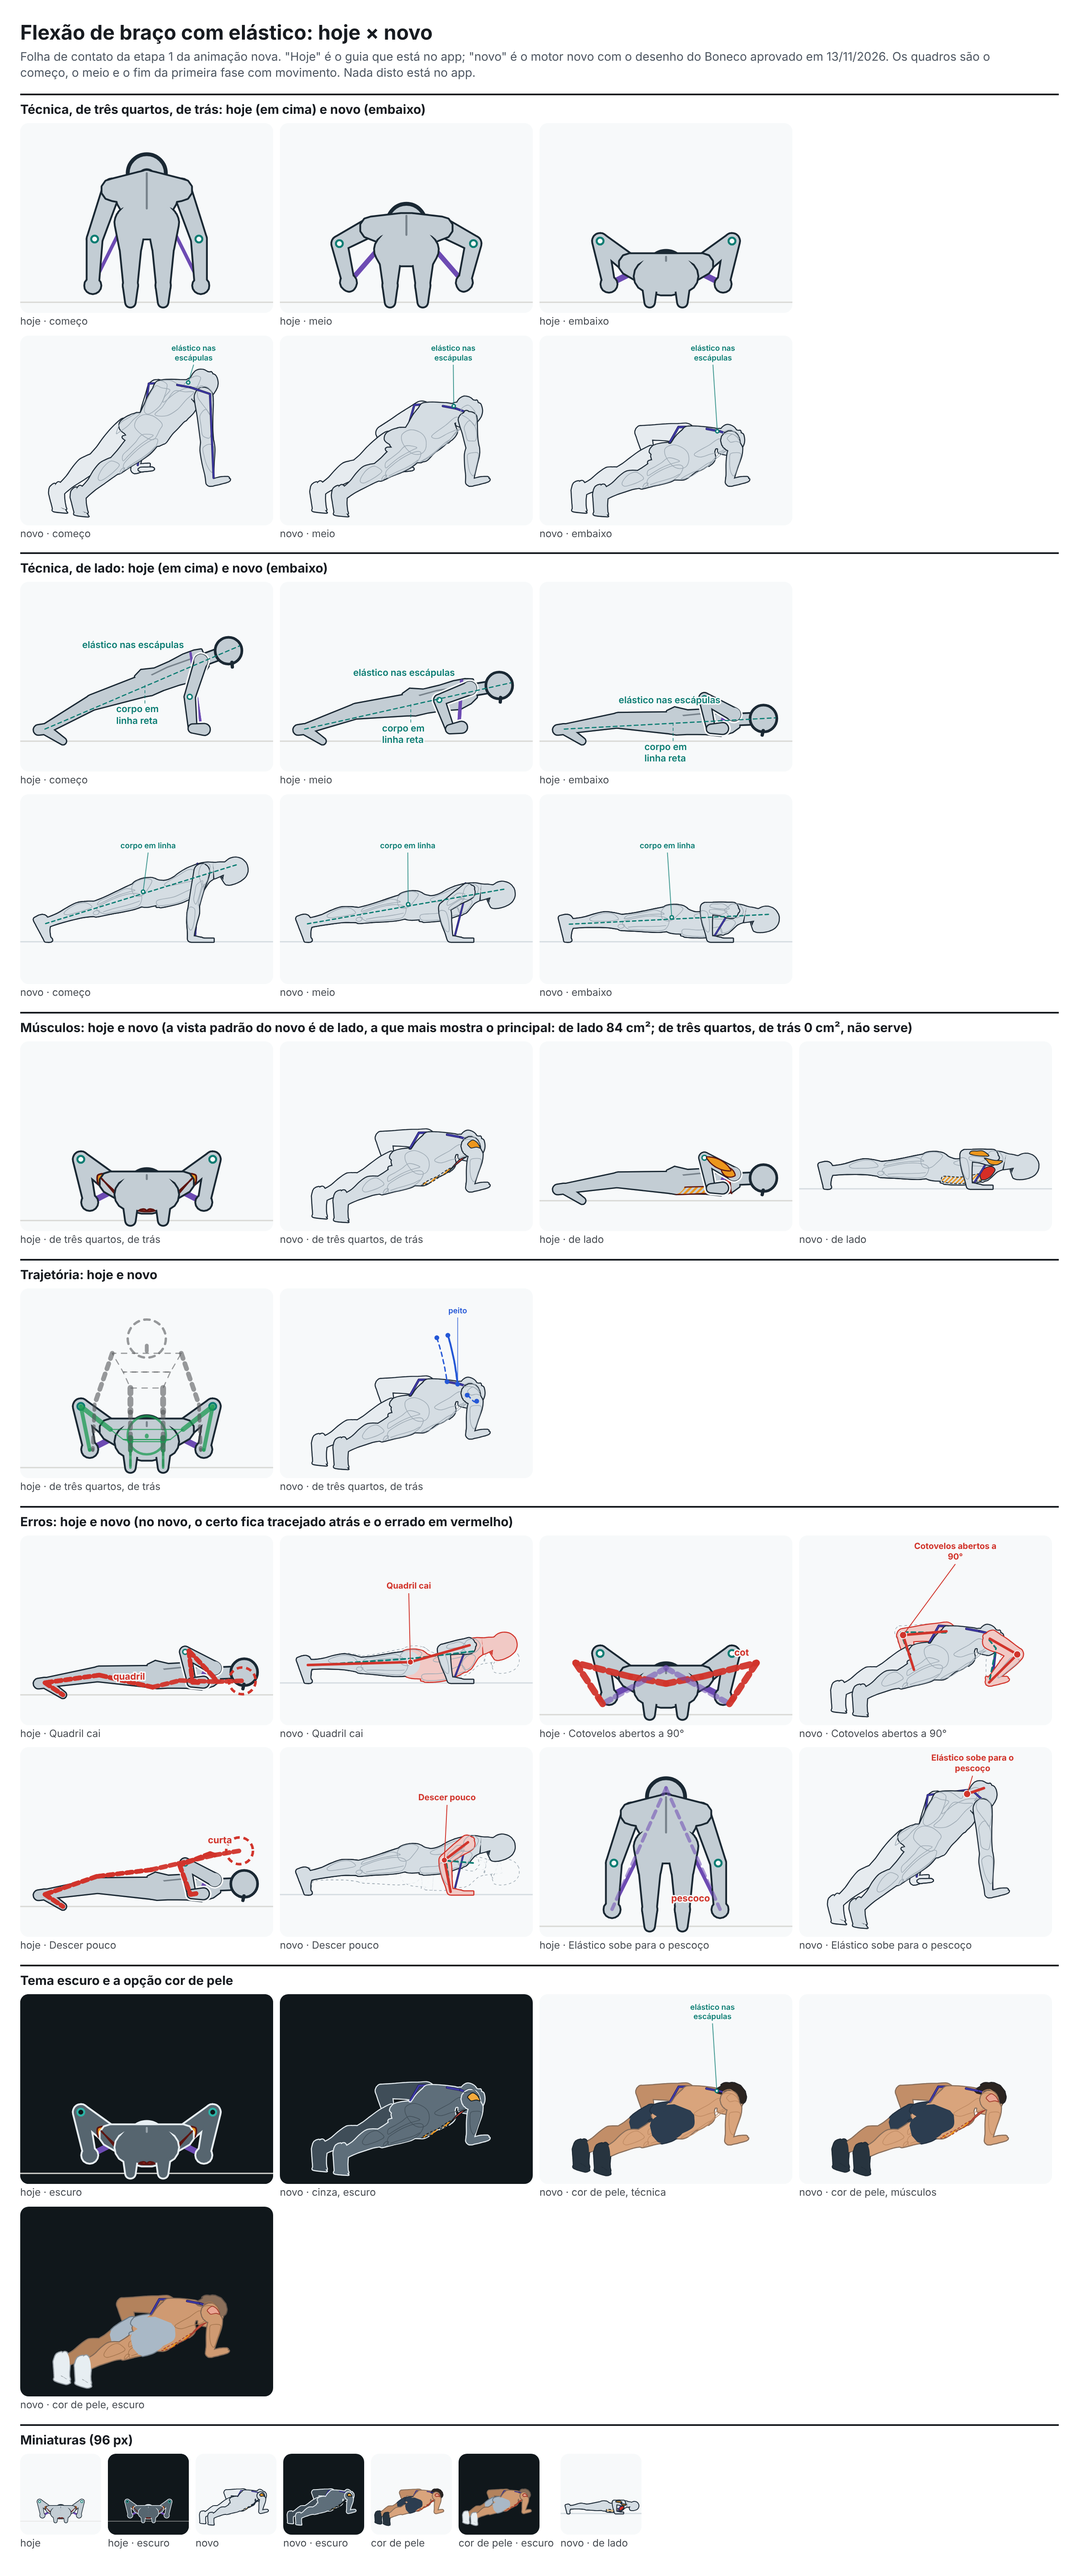
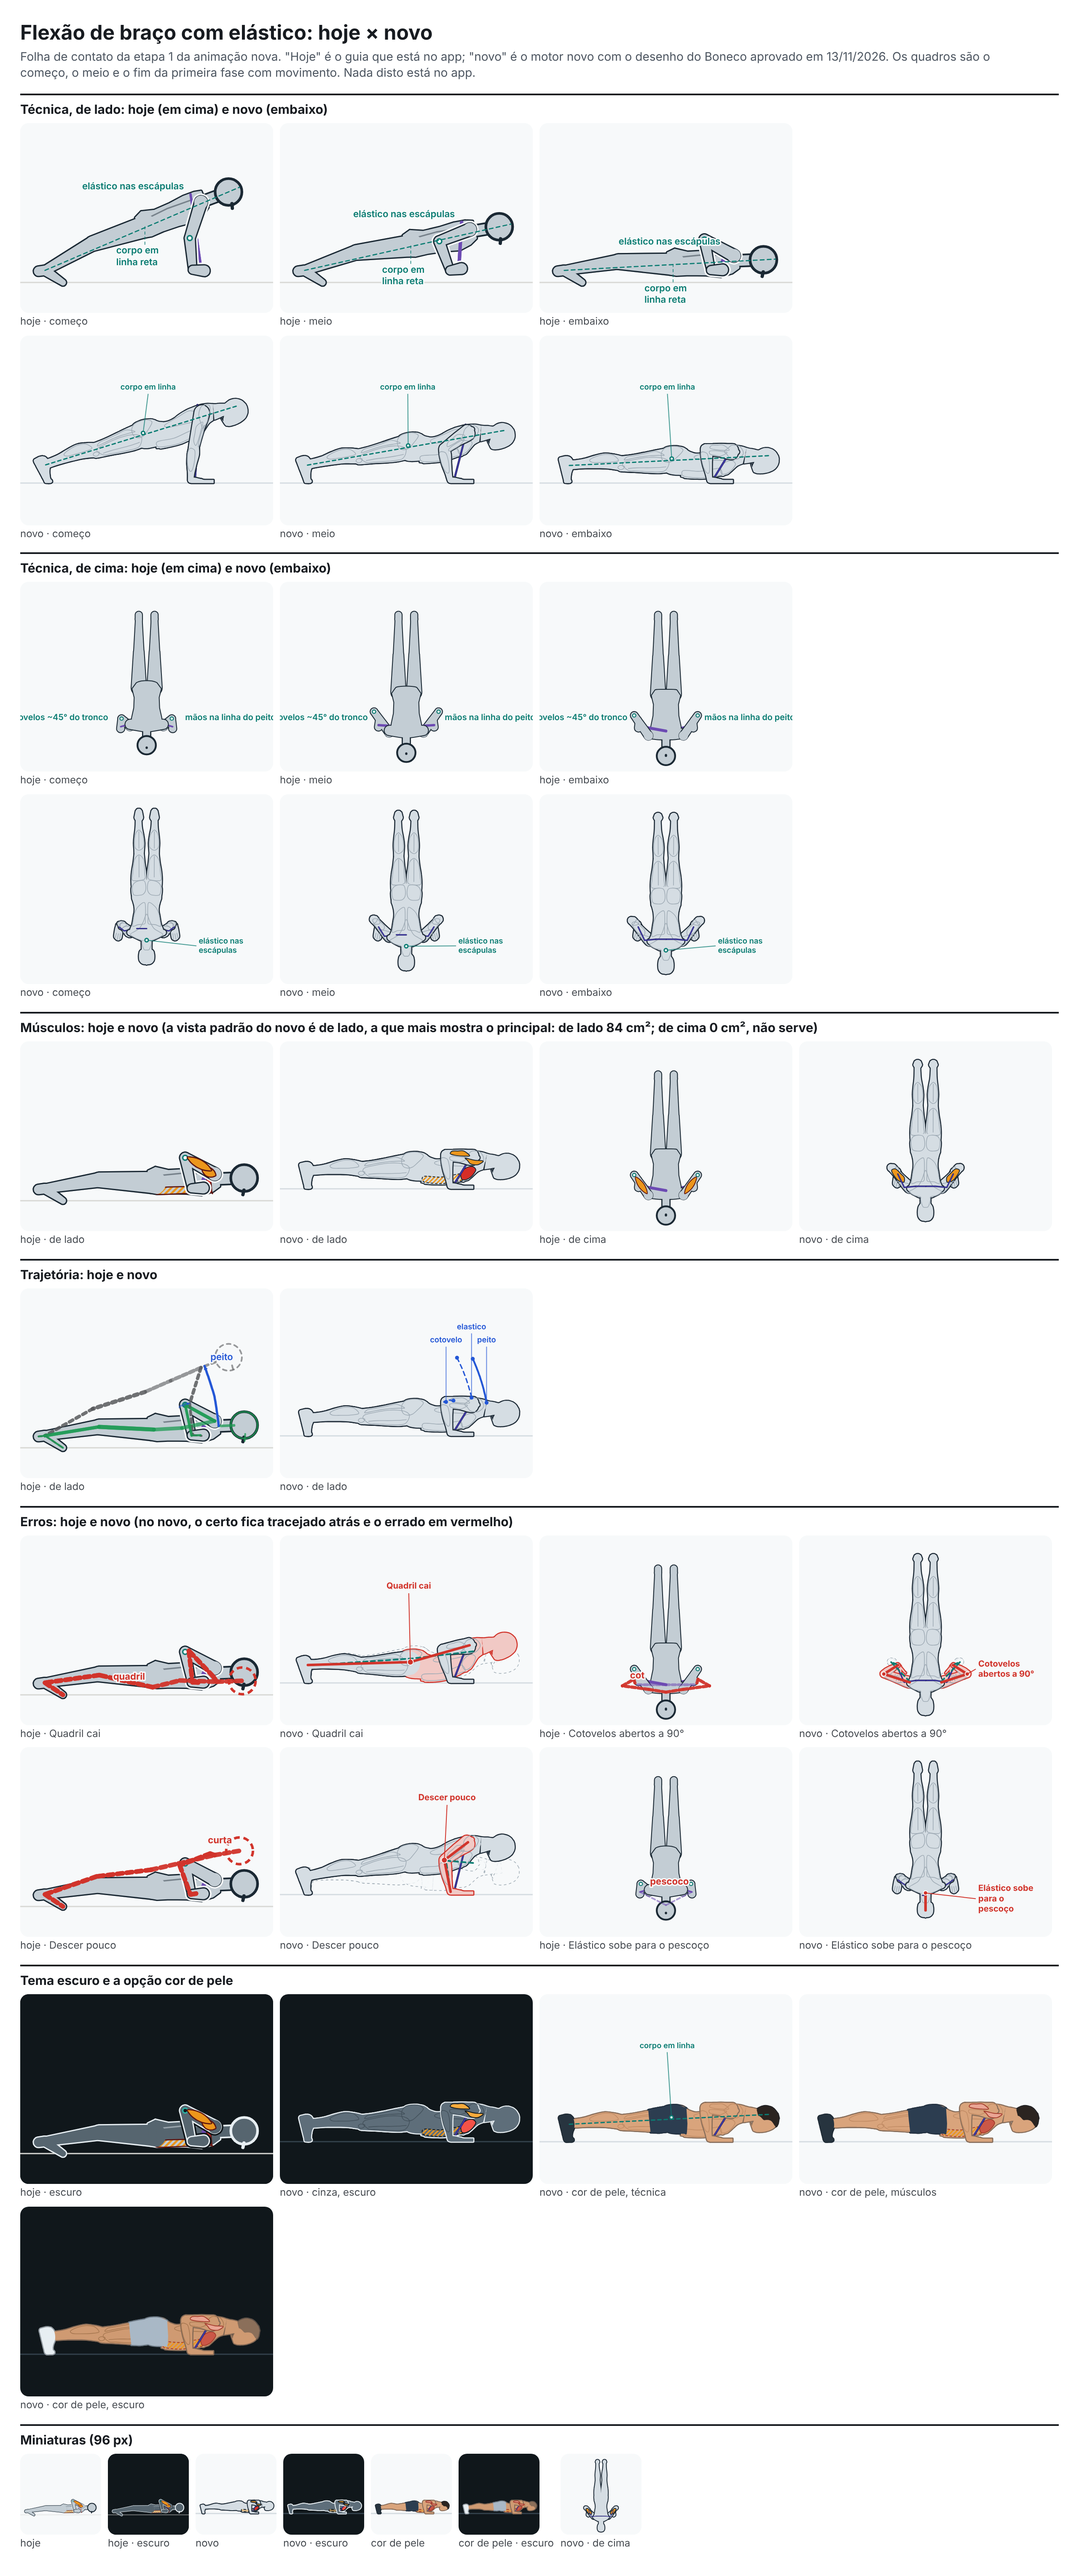
Troca a vista de três quartos pela de cima na flexão com elástico e atualiza o andamento
Com o corpo deitado, a vista de três quartos ficava tosca; de cima, o elástico aparece atravessando as escápulas. A flexão com as mãos juntas e a com elástico entram como aprovadas por delegação.

Claude-Session: https://claude.ai/code/session_01YRzts7dTzBdkrmTDEnq8bW

diff --git a/src/engine/novo/aprovados.ts b/src/engine/novo/aprovados.ts
@@ -19,4 +19,6 @@ export const APROVADOS: Record<string, { em: string; oQueEleDisse: string; como?
   'yt-suspensao': { em: '2026-11-15', oQueEleDisse: DELEGOU, como: 'por delegação' },
   'remada-suspensao': { em: '2026-11-15', oQueEleDisse: DELEGOU, como: 'por delegação' },
   'rosca-suspensao': { em: '2026-11-15', oQueEleDisse: DELEGOU, como: 'por delegação' },
+  'flexao-fechada': { em: '2026-11-15', oQueEleDisse: DELEGOU, como: 'por delegação' },
+  'flexao-elastico': { em: '2026-11-15', oQueEleDisse: DELEGOU, como: 'por delegação' },
 };

diff --git a/src/engine/novo/exercicios/flexao-elastico.ts b/src/engine/novo/exercicios/flexao-elastico.ts
@@ -70,7 +70,7 @@ const A = criarFlexao(ficha, { cena });
 
 export const flexaoElastico: Exercicio = {
   ficha: A.ficha,
-  vistas: ['quinaTras', 'lateral'],
+  vistas: ['lateral', 'cima'],
   quadro: A.quadro,
   // peito principal; tríceps e frente do ombro secundários; o abdômen "só ajuda" (como na flexão e na animação de hoje)
   papeis: { peitoral: 'p', deltAnt: 's', triceps: 's', abdomen: 'a' },

diff --git a/docs/revisoes/animacao-nova/andamento.md b/docs/revisoes/animacao-nova/andamento.md
@@ -2,14 +2,14 @@
 
 Atualizado por quem integra, a cada família juntada. "Aprovada na folha" = o Gustavo olhou e aprovou. "Aprovada por delegação" = conferida por quem integra, risco baixo, registrada com a frase dele de 15/11/2026. "Para o Gustavo ver" = risco médio ou alto: só entra na lista do app depois do ok dele. "Correção de qualidade" = desde o aviso dele de 15/11 ("o fato de eu ter delegado [...] não quer dizer que a gente pode diminuir a qualidade"), nenhuma animação delegada conta como pronta enquanto tiver defeito visível nos quadros (seção 8 de `como-fazer-uma-animacao.md`). As folhas ficam em `prototipos/folha-<id>.png` e os quadros grandes em `quadros/<id>.png`.
 
-Resumo: 7 aprovadas na folha; 8 por delegação; 3 prontas para o Gustavo ver; 7 em correção ou por conferir; 5 âncoras sem aprovação na folha; 4 em andamento; 57 por fazer.
+Resumo: 7 aprovadas na folha; 10 por delegação; 3 prontas para o Gustavo ver; 5 em correção de qualidade; 4 das quatro primeiras sem aprovação na folha; 4 em andamento; 57 por fazer.
 
 | Lote | Exercício | Estado |
 |---|---|---|
-| 0 | `flexao` | feita (âncora); falta a aprovação na folha |
-| 0 | `goblet` | feita (âncora); falta a aprovação na folha |
-| 0 | `puxada-unilateral` | feita (âncora); falta a aprovação na folha |
-| 0 | `supino-reto` | feita (âncora); falta a aprovação na folha |
+| 0 | `flexao` | feita (das quatro primeiras); falta a aprovação na folha |
+| 0 | `goblet` | feita (das quatro primeiras); falta a aprovação na folha |
+| 0 | `puxada-unilateral` | feita (das quatro primeiras); falta a aprovação na folha |
+| 0 | `supino-reto` | feita (das quatro primeiras); falta a aprovação na folha |
 | 1 | `afundo` | aprovada na folha |
 | 1 | `afundo-kettlebell` | aprovada na folha |
 | 1 | `afundo-peso-corpo` | aprovada na folha |
@@ -21,8 +21,8 @@ Resumo: 7 aprovadas na folha; 8 por delegação; 3 prontas para o Gustavo ver; 7
 | 1 | `bulgaro-suspensao` | feita; em correção de qualidade (subagente) |
 | 2 | `extensao-triceps-peso-corpo` | feita; em correção de qualidade (subagente); depois **para o Gustavo ver** |
 | 2 | `flexao-bola` | feita e corrigida (costas e cabeça no chão, bola com volume); **para o Gustavo ver** (é a flexão de joelho na bola; o pescoço dobra 53° no fim) |
-| 2 | `flexao-elastico` | feita e corrigida; falta nova correção (a vista de três quartos do corpo deitado ficou tosca) |
-| 2 | `flexao-fechada` | feita e corrigida; falta eu conferir os quadros |
+| 2 | `flexao-elastico` | feita e conferida quadro a quadro por quem integra; aprovada por delegação (vistas: de lado e de cima) |
+| 2 | `flexao-fechada` | feita e conferida quadro a quadro por quem integra; aprovada por delegação |
 | 2 | `flexao-pes-elevados` | feita e corrigida (o rosto fica a 5 cm do chão); **para o Gustavo ver** (o peito para a 8,5 cm do chão) |
 | 2 | `pike` | feita; em correção de qualidade (subagente) |
 | 3 | `crucifixo-elastico` | por fazer |
@@ -44,7 +44,7 @@ Resumo: 7 aprovadas na folha; 8 por delegação; 3 prontas para o Gustavo ver; 7
 | 4 | `remada-baixa` | por fazer |
 | 4 | `remada-curvada-halteres` | por fazer |
 | 4 | `remada-elastico` | por fazer |
-| 4 | `remada-suspensao` | feita e conferida quadro a quadro por quem integra; aprovada por delegação (âncora a 183 cm, a altura do fabricante; hoje 205) |
+| 4 | `remada-suspensao` | feita e conferida quadro a quadro por quem integra; aprovada por delegação (o ponto de prender a fita fica a 183 cm, a altura do fabricante; hoje 205) |
 | 4 | `remada-unilateral` | por fazer |
 | 4 | `remada-unilateral-kettlebell` | por fazer |
 | 4 | `remada-unilateral-polia` | por fazer |

diff --git a/docs/revisoes/animacao-nova/lote-2/flexao-elastico.md b/docs/revisoes/animacao-nova/lote-2/flexao-elastico.md
@@ -70,3 +70,7 @@ Testei de lado, de cima, de três quartos (`quina`), de três quartos de trás (
 ## Risco de o Gustavo não gostar
 
 **Médio.** O corpo é o da `flexao` aprovada, e o elástico agora aparece inteiro na vista padrão. A vista de três quartos de trás é nova nas flexões, e a volta na mão não aparece.
+
+## Depois da conferência de quem integra (15/11/2026)
+
+A vista de três quartos, de trás, saiu: com o corpo deitado ela ficava tosca (o quadril e as pernas viravam um volume só). Ficaram a vista de lado (a padrão) e a de cima, onde o elástico aparece atravessando as escápulas e descendo até as mãos. Os rótulos e os erros que estavam na vista de três quartos passaram para a de cima. A conferência automática segue sem falha.
